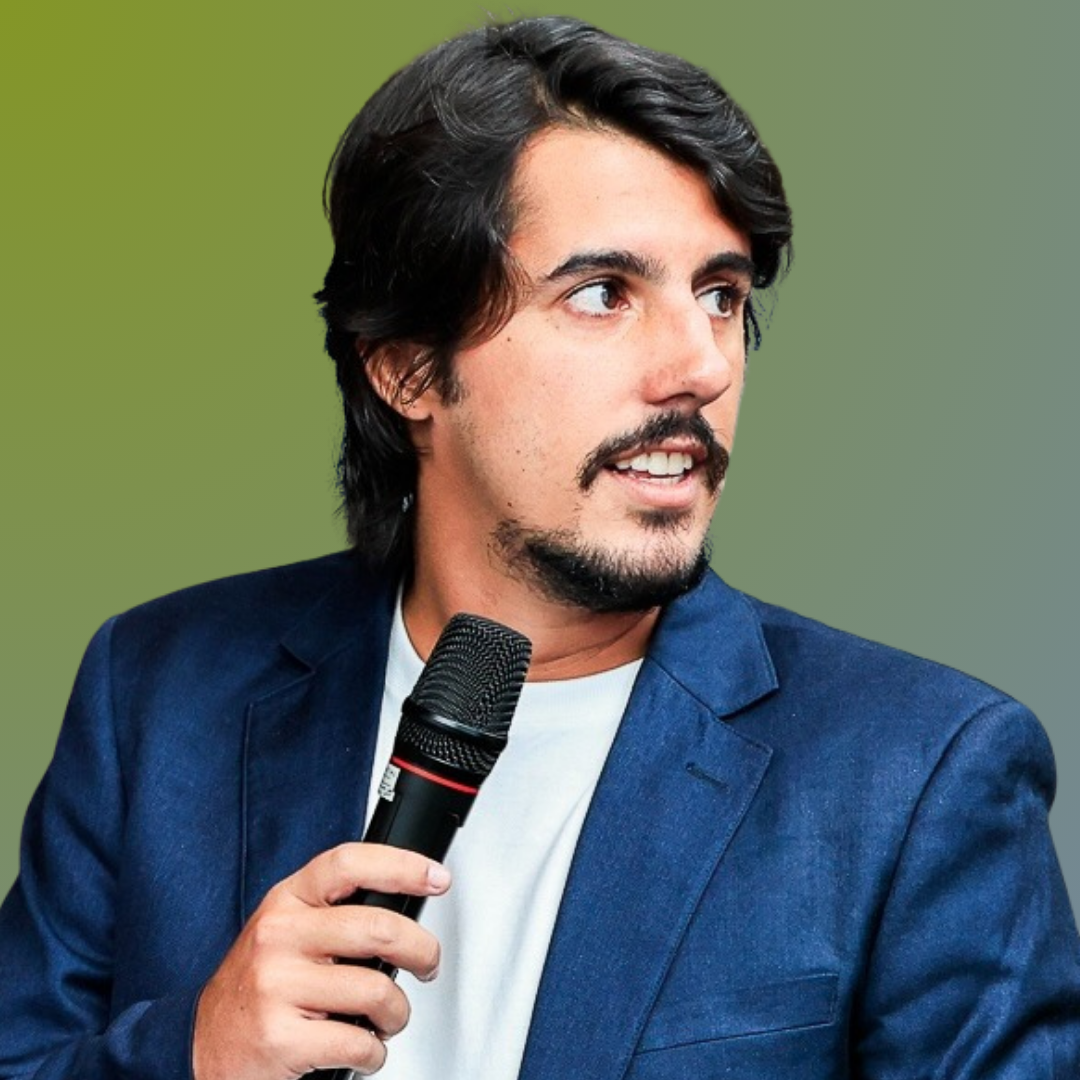
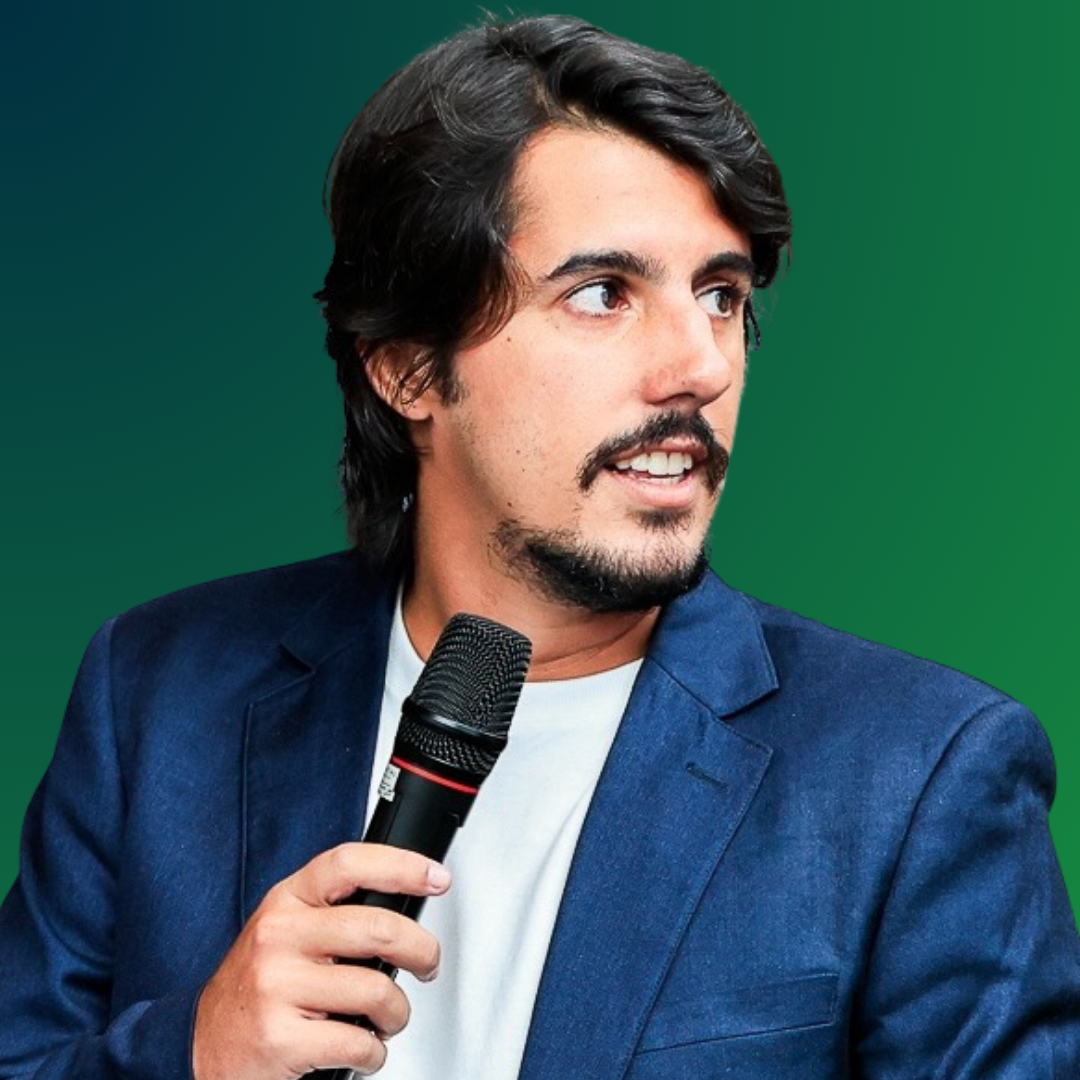
feat: adicionar dobra de professores com imagens e alinhar cores/fundo

diff --git a/src/components/Faculty.tsx b/src/components/Faculty.tsx
@@ -1,56 +1,57 @@
 import { motion } from 'framer-motion';
-import { User, Terminal } from 'lucide-react';
 
 const base = import.meta.env.BASE_URL;
 
 const facultyMembers = [
   {
     name: "Henrique Gonzalez",
-    title: "Co-fundador da Ambiental Pro",
+    title: "ENGENHEIRO AMBIENTAL (UFRJ)",
     image: `${base}faculty/henrique.png`,
-    isPlaceholder: false,
-    resume: "Engenheiro Ambiental na UFRJ com intercâmbio na University of Technology de Sydney, Austrália. Especialista em Geotecnologias, já tendo ministrado formações para mais de 70.000 profissionais."
+    resume: "Experiência sólida na área ambiental, focado em geoprocessamento e soluções tecnológicas."
   },
   {
-    name: "Victor Sacramento",
-    title: "Engenheiro de Dados & Geotecnólogo",
-    isPlaceholder: true,
-    resume: "Especialista em arquitetura de dados geográficos e estruturação de dados não estruturados para IA. Pioneiro em fluxos RAG voltados ao licenciamento."
+    name: "Victor Valente Silvestre",
+    title: "ENGENHEIRO AMBIENTAL E PESQUISADOR",
+    image: `${base}faculty/victor.png`,
+    resume: "Especialista em licenciamento ambiental e IA generativa aplicada ao setor ambiental, com mais de 17 anos de experiência."
   },
   {
-    name: "Victor Silvestre",
-    title: "Especialista em Machine Learning",
-    isPlaceholder: true,
-    resume: "Doutorando e pesquisador em inteligência artificial, focado em conceitos, treinamento e otimização de modelos preditivos e classificação supervisionada."
+    name: "Tatiana Pará",
+    title: "ENGENHEIRA AGRÔNOMA E PROFESSORA DO IFPA",
+    image: `${base}faculty/tatiana.png`,
+    resume: "Atua com geotecnologias, geoprocessamento com IA e inclusão digital na Amazônia."
   },
   {
-    name: "Vinicius Ragghianti",
-    title: "Especialista em IA Aplicada",
-    isPlaceholder: true,
-    resume: "Especialista em arquitetura de redes neurais artificiais e aplicações práticas de machine learning no processamento de dados físicos e ambientais."
-  },
-  {
-    name: "NeloreTech",
-    title: "Especialistas em Visão Computacional",
-    isPlaceholder: true,
-    isOrg: true,
-    resume: "Empresa parceira especialista na implementação de visão computacional de alta performance para detecção e classificação automática de espécies e uso do solo."
+    name: "Vinícius Ragghianti",
+    title: "ENGENHEIRO AMBIENTAL E SANITARISTA",
+    image: `${base}faculty/vinicius.png`,
+    resume: "Especialista em saneamento, gestão de projetos e IA generativa aplicada à engenharia."
   }
 ];
 
 export default function Faculty() {
   return (
-    <section id="professores" className="py-16 md:py-24 bg-[var(--color-brand-dark-light)] relative overflow-hidden">
+    <section id="professores" className="py-16 md:py-24 bg-[var(--color-brand-dark-light)] relative overflow-hidden border-t border-white/5">
+      {/* Decorative subtle gradient glow */}
+      <div className="absolute -top-24 -left-24 w-72 h-72 bg-brand-gradient opacity-[0.03] blur-[80px] pointer-events-none"></div>
+      
       <div className="max-w-7xl mx-auto px-6">
 
+        {/* Section Header */}
         <div className="text-center mb-16">
-          <h2 className="text-3xl md:text-5xl font-bold mb-4 font-primary uppercase tracking-wide">
-            Conheça alguns de <span className="inline-block bg-brand-gradient text-[var(--color-brand-dark)] px-3 py-1 mt-2 mb-1 shape-leaf transform -skew-x-6"><span className="inline-block transform skew-x-6">nossos professores</span></span>
+          <h2 className="text-3xl md:text-5xl font-bold mb-4 font-primary uppercase tracking-wide leading-tight">
+            Conheça alguns de{" "}
+            <span className="inline-block bg-brand-gradient text-[var(--color-brand-dark)] px-4 py-1.5 mt-2 mb-1 shape-leaf transform -skew-x-6 font-extrabold shadow-md">
+              <span className="inline-block transform skew-x-6 tracking-wider">Nossos Professores</span>
+            </span>
           </h2>
-          <p className="text-[var(--color-brand-light)]/70 max-w-2xl mx-auto font-secondary">Aprenda com quem constrói e lidera soluções tecnológicas voltadas ao mercado ambiental.</p>
+          <p className="text-[var(--color-brand-light)]/70 max-w-2xl mx-auto font-secondary mt-6 text-base md:text-lg">
+            Aprenda com especialistas de mercado e acadêmicos renomados nas melhores instituições do país.
+          </p>
         </div>
 
-        <div className="grid grid-cols-1 sm:grid-cols-2 lg:grid-cols-3 xl:grid-cols-5 gap-8">
+        {/* Grid Layout */}
+        <div className="grid grid-cols-1 sm:grid-cols-2 lg:grid-cols-4 gap-8">
           {facultyMembers.map((member, index) => (
             <motion.div
               key={index}
@@ -58,42 +59,33 @@ export default function Faculty() {
               whileInView={{ opacity: 1, y: 0 }}
               viewport={{ once: true, margin: "-50px" }}
               transition={{ duration: 0.5, delay: index * 0.1 }}
-              className="shape-leaf bg-white/[0.03] backdrop-blur-sm border border-white/10 overflow-hidden hover:border-[var(--color-brand-primary)]/50 transition-all group hover:shadow-[0_0_30px_rgba(124,191,57,0.15)] flex flex-col shadow-lg shadow-black/40"
+              className="shape-leaf bg-white/[0.03] border border-white/10 overflow-hidden hover:border-[var(--color-brand-primary)]/50 hover:shadow-[0_0_30px_rgba(124,191,57,0.15)] transition-all duration-300 group flex flex-col shadow-lg shadow-black/40"
             >
-              {/* Image container must also follow the shape or part of it */}
-              <div className="h-64 overflow-hidden relative shrink-0">
-                {member.isPlaceholder ? (
-                  <div className="w-full h-full bg-gradient-to-br from-[var(--color-brand-dark)] to-[var(--color-brand-accent)]/20 flex flex-col items-center justify-center relative group-hover:scale-105 transition-transform duration-500 overflow-hidden">
-                    {/* Sleek cyber grid overlay */}
-                    <div className="absolute inset-0 bg-grid opacity-10"></div>
-                    {/* Glowing neon green user silhouette */}
-                    <div className="w-24 h-24 rounded-full border-2 border-[var(--color-brand-primary)]/40 bg-[var(--color-brand-dark)]/80 flex items-center justify-center relative z-10 shadow-[0_0_20px_rgba(124,191,57,0.2)]">
-                      {member.isOrg ? (
-                        <Terminal className="w-12 h-12 text-[var(--color-brand-primary)] animate-pulse" />
-                      ) : (
-                        <User className="w-12 h-12 text-[var(--color-brand-primary)]" />
-                      )}
-                    </div>
-                    <div className="absolute bottom-4 left-4 right-4 bg-black/80 border border-white/5 py-1.5 px-3 rounded text-center z-10">
-                      <span className="text-[10px] text-[var(--color-brand-primary)] uppercase tracking-[0.2em] font-bold">
-                        {member.isOrg ? "Parceiro" : "Docente Convidado"}
-                      </span>
-                    </div>
-                  </div>
-                ) : (
-                  <img
-                    src={member.image}
-                    alt={`${member.name} – Professor da Pós-Graduação em Inteligência Artificial Aplicada ao Meio Ambiente`}
-                    className="w-full h-full object-cover grayscale-0 md:grayscale opacity-100 md:opacity-90 group-hover:grayscale-0 group-hover:opacity-100 group-hover:scale-105 transition-all duration-500"
-                  />
-                )}
+              {/* Grayscale hover Image Container */}
+              <div className="h-72 overflow-hidden relative shrink-0">
+                <img
+                  src={member.image}
+                  alt={`${member.name} – Professor da Pós-Graduação`}
+                  className="w-full h-full object-cover grayscale group-hover:grayscale-0 opacity-80 group-hover:opacity-100 group-hover:scale-105 transition-all duration-500 ease-in-out"
+                />
               </div>
-              <div className="p-6 flex-1 flex flex-col justify-between">
-                <div>
-                  <h3 className="text-xl font-bold text-[var(--color-brand-light)] mb-1 font-primary group-hover:text-[var(--color-brand-primary)] transition-colors">{member.name}</h3>
-                  <p className="text-sm text-[var(--color-brand-secondary)] mb-4 font-semibold uppercase tracking-wider">{member.title}</p>
+
+              {/* Text details */}
+              <div className="p-6 flex-1 flex flex-col justify-start">
+                <div className="min-h-[105px] sm:min-h-[110px] md:min-h-[120px] lg:min-h-[135px] xl:min-h-[125px] flex flex-col justify-start">
+                  <h3 className="text-lg md:text-xl xl:text-2xl font-bold text-[var(--color-brand-light)] mb-1 font-primary tracking-wide leading-tight group-hover:text-[var(--color-brand-primary)] transition-colors duration-300">
+                    {member.name}
+                  </h3>
+                  <p className="text-xs md:text-[13px] text-[var(--color-brand-primary)] font-bold uppercase tracking-wider leading-relaxed font-primary mt-1">
+                    {member.title}
+                  </p>
                 </div>
-                <p className="text-sm text-[var(--color-brand-light)]/60 leading-relaxed border-t border-white/10 pt-4 font-secondary">{member.resume}</p>
+                
+                <div className="border-t border-white/10 pt-4 mt-2">
+                  <p className="text-sm text-[var(--color-brand-light)]/70 leading-relaxed font-secondary">
+                    {member.resume}
+                  </p>
+                </div>
               </div>
             </motion.div>
           ))}
@@ -103,3 +95,4 @@ export default function Faculty() {
     </section>
   );
 }
+

diff --git a/src/components/CallToAction.tsx b/src/components/CallToAction.tsx
@@ -9,7 +9,7 @@ export default function CallToAction({ onOpenModal }: CallToActionProps) {
   const checkoutUrl = "https://sndflw.com/i/AlPWxxjxTZ6edSfzJtaF";
 
   return (
-    <section id="inscreva-se" className="py-16 md:py-24 relative overflow-hidden bg-[var(--color-brand-dark-light)] border-t border-white/5">
+    <section id="inscreva-se" className="py-16 md:py-24 relative overflow-hidden bg-[var(--color-brand-dark)] border-t border-white/5">
       
       {/* Background radial gradient */}
       <div className="absolute inset-0 bg-[radial-gradient(circle_at_center,rgba(124,191,57,0.15)_0%,rgba(0,13,20,1)_70%)] pointer-events-none"></div>

diff --git a/src/App.tsx b/src/App.tsx
@@ -5,6 +5,7 @@ import Curriculum from './components/Curriculum'
 import SkillsResults from './components/SkillsResults'
 import PracticalApplications from './components/PracticalApplications'
 import TargetAudience from './components/TargetAudience'
+import Faculty from './components/Faculty'
 
 import CourseInfo from './components/CourseInfo'
 // import Testimonials from './components/Testimonials'
@@ -35,6 +36,7 @@ function App() {
       <SkillsResults />
       <PracticalApplications />
       <TargetAudience />
+      <Faculty />
       <CourseInfo />
       {/* <Testimonials /> */}
       <FAQ />

diff --git a/src/components/FAQ.tsx b/src/components/FAQ.tsx
@@ -25,7 +25,7 @@ export default function FAQ() {
   const [openIndex, setOpenIndex] = useState<number | null>(null);
 
   return (
-    <section id="faq" className="py-16 md:py-24 bg-[var(--color-brand-dark)] border-t border-white/5">
+    <section id="faq" className="py-16 md:py-24 bg-[var(--color-brand-dark-light)] border-t border-white/5">
       <div className="max-w-4xl mx-auto px-6">
         
         <div className="text-center mb-16">
